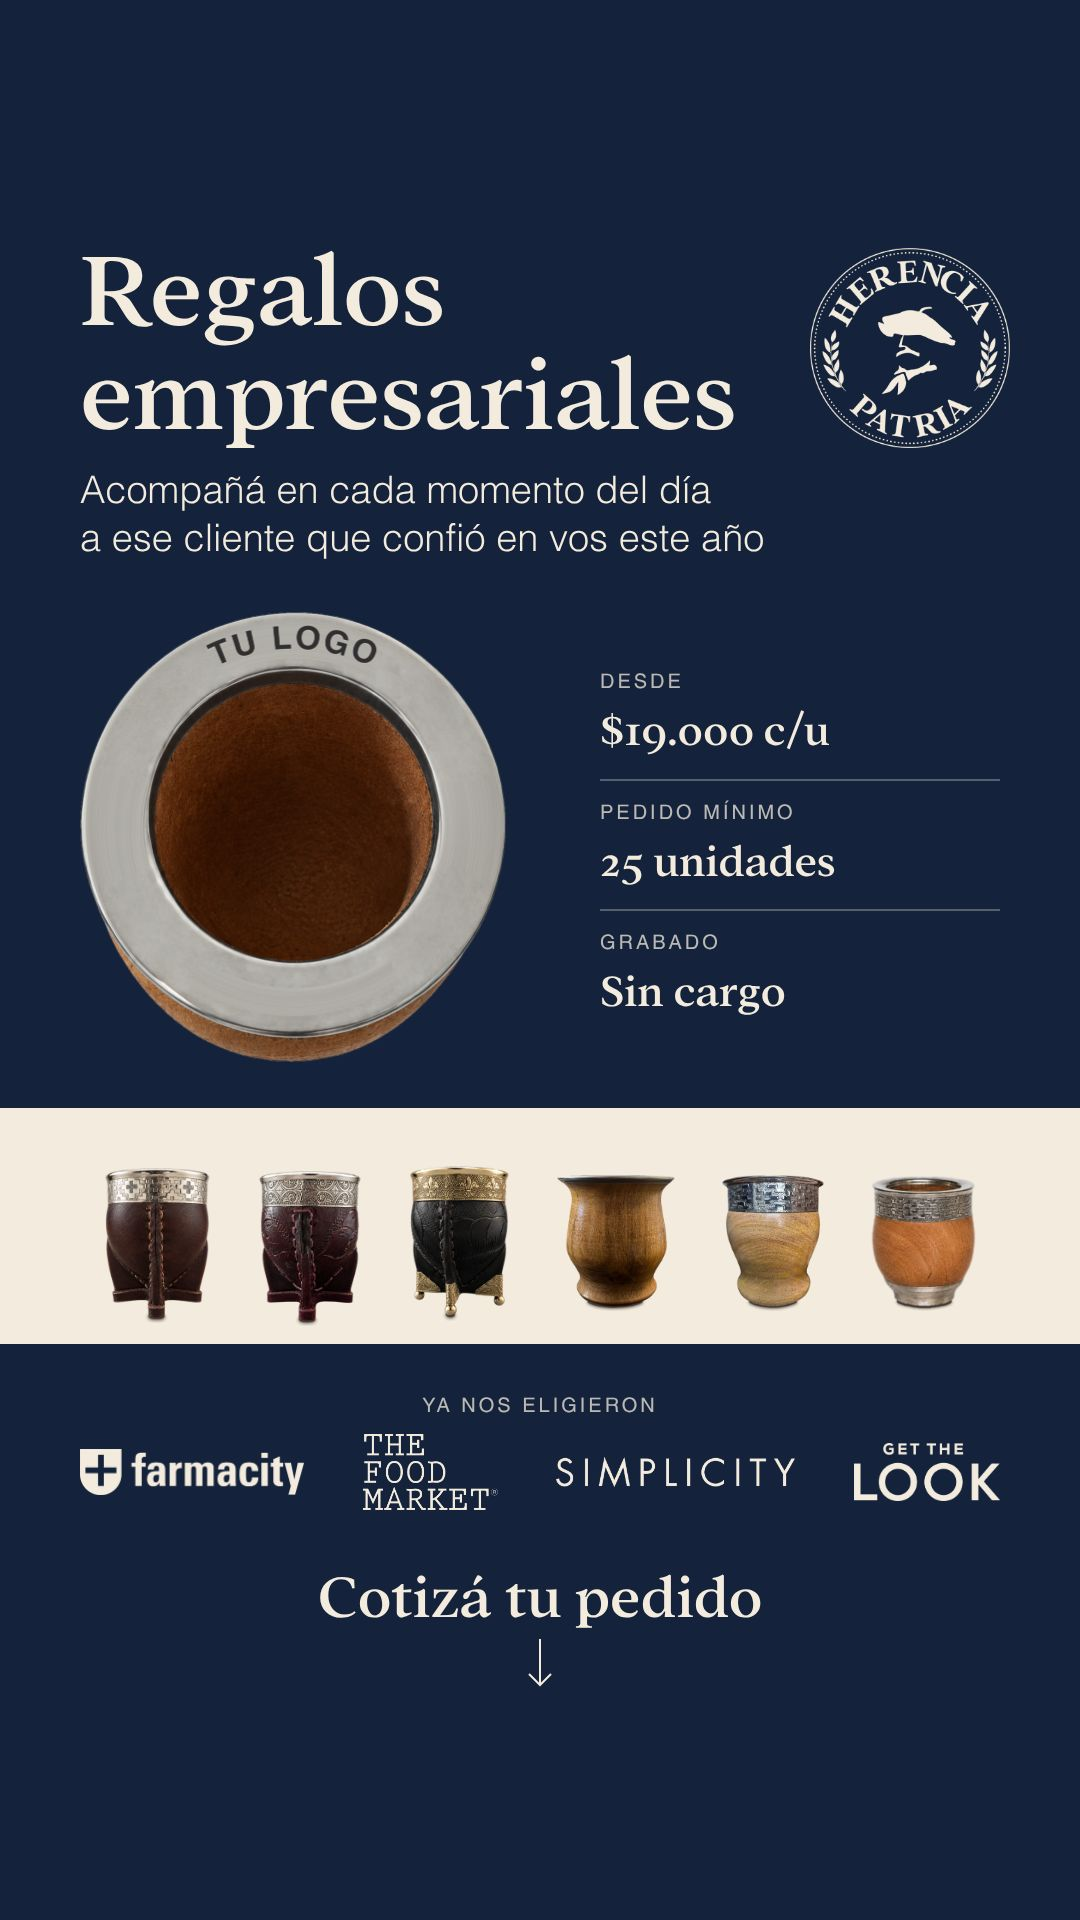
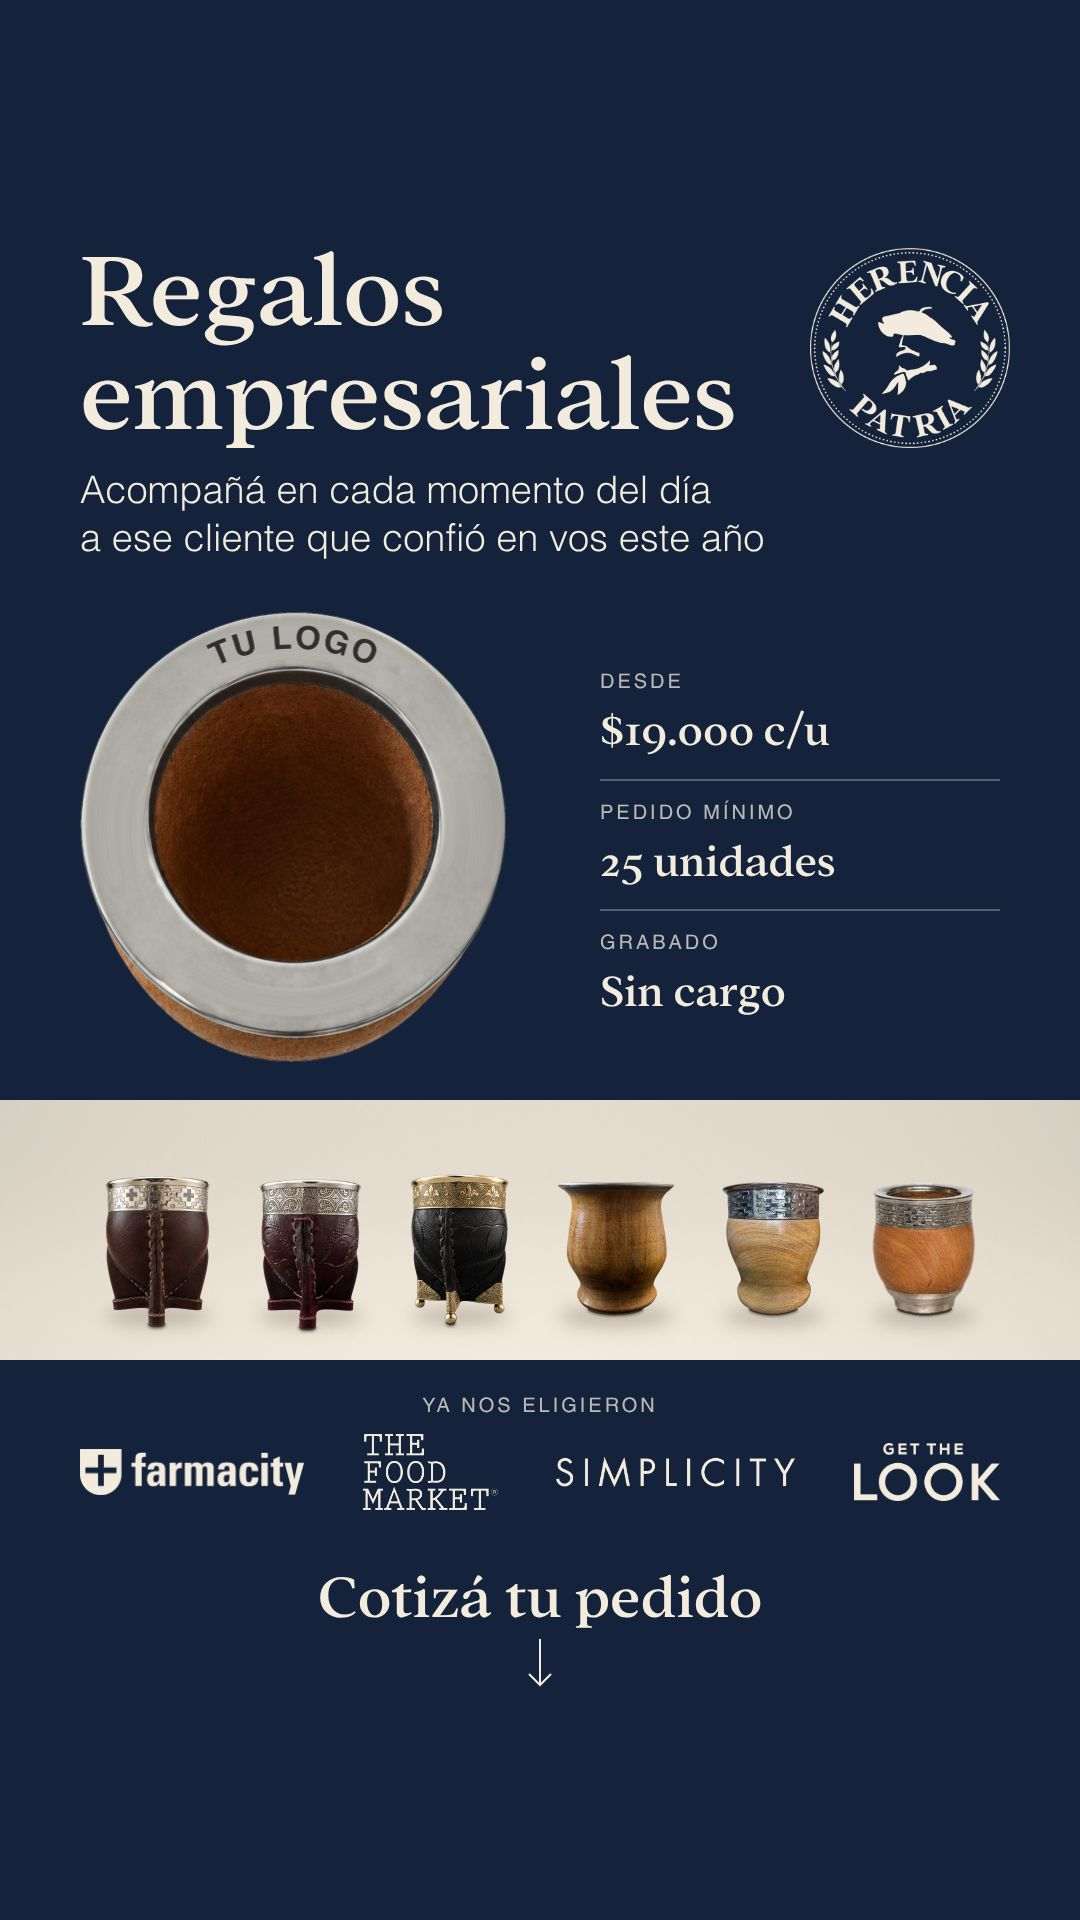
Historia empresas B: los mates sobre una mesa de estudio (papel continuo crema con sombras suaves)
Claude-Session: https://claude.ai/code/session_012H3xPSmbqKoMmc2aK7okNH

Changed region(s): [[0.0, 0.5625, 1.0, 0.7188]]

diff --git a/src/HerenciaPatria/HistoriaEmpresasLogo.tsx b/src/HerenciaPatria/HistoriaEmpresasLogo.tsx
@@ -6,7 +6,7 @@ import { colors, fonts } from "./brand";
 // para cotizar sin miedo a quedar mal. Fondo azul y letras crema. Arriba el
 // título; al medio, a la izquierda, la boca de un mate grabado con "TU LOGO"
 // (la prueba de cómo queda) y a la derecha los datos duros (precio, mínimo,
-// grabado). Después, los seis modelos en fila sobre una franja crema,
+// grabado). Después, los seis modelos sobre una mesa de estudio,
 // quiénes ya los eligieron y el llamado con una flecha hacia abajo. Las
 // letras del brandbook: Addington CF Medium para los titulares y Helvetica
 // LT Std para los textos.
@@ -14,9 +14,6 @@ import { colors, fonts } from "./brand";
 // abajo la respuesta o el botón del anuncio.
 
 const margen = 80;
-// Los recortes traen debajo de la base su sombra de contacto: 24 px más cada
-// 700 de mate.
-const conPie = 724 / 700;
 
 export const HistoriaEmpresasLogo: React.FC<{
   readonly titulo: string[];
@@ -26,13 +23,21 @@ export const HistoriaEmpresasLogo: React.FC<{
   readonly grabado: { readonly foto: string };
   // Los datos duros: rótulo chico y valor grande.
   readonly datos: [rotulo: string, valor: string][];
-  // Los seis modelos, con su alto en la fila (los de calabaza son algo más
-  // grandes): recortes con su sombra de contacto (tools/recorte_mate.py).
-  readonly mates: [archivo: string, alto: number, bajar: number][];
+  // Los seis modelos en fila sobre la mesa de estudio: una sola imagen.
+  readonly estudio: string;
   readonly confianza: string;
   readonly logos: [archivo: string, alto: number][];
   readonly accion: string;
-}> = ({ titulo, bajada, grabado, datos, mates, confianza, logos, accion }) => {
+}> = ({
+  titulo,
+  bajada,
+  grabado,
+  datos,
+  estudio,
+  confianza,
+  logos,
+  accion,
+}) => {
   const rotulo: React.CSSProperties = {
     fontFamily: fonts.texto,
     fontWeight: 400,
@@ -113,43 +118,11 @@ export const HistoriaEmpresasLogo: React.FC<{
           </div>
         ))}
       </div>
-      {/* Los seis modelos, en fila, apoyados sobre una franja crema a todo el
-          ancho (como el fondo de estudio de las fotos del catálogo), cada uno
-          con su sombra de contacto. */}
-      <div
-        style={{
-          position: "absolute",
-          top: 1108,
-          left: 0,
-          right: 0,
-          height: 236,
-          background: colors.crema,
-        }}
+      {/* Los seis modelos sobre una mesa de estudio (tools/estudio_mates.py). */}
+      <Img
+        src={staticFile(estudio)}
+        style={{ position: "absolute", top: 1100, left: 0, width: 1080 }}
       />
-      <div
-        style={{
-          position: "absolute",
-          top: 1306 - 150,
-          left: margen + 20,
-          right: margen + 20,
-          height: 150 * conPie,
-          display: "flex",
-          justifyContent: "space-between",
-          alignItems: "flex-end",
-        }}
-      >
-        {mates.map(([src, alto, bajar]) => (
-          <Img
-            key={src}
-            src={staticFile(src)}
-            style={{
-              display: "block",
-              height: alto * conPie,
-              marginBottom: -bajar,
-            }}
-          />
-        ))}
-      </div>
       {/* Quiénes ya los eligieron: los logos en crema. */}
       <div
         style={{

diff --git a/src/Root.tsx b/src/Root.tsx
@@ -445,18 +445,18 @@ export const RemotionRoot: React.FC = () => {
             ["Grabado", "Sin cargo"],
           ] as [string, string][],
           // Los de calabaza (simple, repujado y base bolita), algo más
-          // grandes, y los de algarrobo (camionero, imperial e imperial con base).
-          // Fotos del catálogo. El tercer número baja los que tienen patas: la
-          // foto los muestra un poco desde arriba, así que la pata de adelante
-          // queda más abajo que el piso real (el de las patas de los costados).
-          mates: [
-            ["recortes/calabaza-simple.png", 150, 12],
-            ["recortes/calabaza-repujado.png", 150, 15],
-            ["recortes/calabaza-base-bolita.png", 150, 10],
-            ["recortes/algarrobo-camionero.png", 132, 0],
-            ["recortes/algarrobo-imperial.png", 132, 0],
-            ["recortes/algarrobo-imperial-con-base.png", 132, 0],
-          ] as [string, number, number][],
+          // grandes, y los de algarrobo (camionero, imperial e imperial con
+          // base), sobre una mesa de estudio. Los de calabaza van un poco más
+          // abajo (el último número): la foto los muestra desde arriba y la
+          // pata de adelante queda más abajo que el piso real.
+          //   python tools/estudio_mates.py public/estudio-mates.png 1080 260 214 100 \
+          //     public/recortes/calabaza-simple.png:150:12 \
+          //     public/recortes/calabaza-repujado.png:150:15 \
+          //     public/recortes/calabaza-base-bolita.png:150:10 \
+          //     public/recortes/algarrobo-camionero.png:132:0 \
+          //     public/recortes/algarrobo-imperial.png:132:0 \
+          //     public/recortes/algarrobo-imperial-con-base.png:132:0
+          estudio: "estudio-mates.png",
           confianza: "Ya nos eligieron",
           logos: [
             ["clientes/farmacity-crema.png", 46],

diff --git a/tools/estudio_mates.py b/tools/estudio_mates.py
@@ -1,0 +1,83 @@
+"""Los mates en fila sobre una mesa de estudio: fondo crema que se curva hacia
+el piso (sin línea de horizonte, como el papel continuo de las fotos de
+producto), una sombra suave bajo cada mate además de su sombra de contacto, y
+un grano muy fino de papel. Sale una sola imagen para la historia.
+
+Uso:
+  python estudio_mates.py SALIDA.png ANCHO ALTO PISO MARGEN \
+      RECORTE:ALTO:BAJAR [RECORTE:ALTO:BAJAR ...]
+
+ANCHO, ALTO, PISO (la línea donde apoyan) y MARGEN en px de la historia; la
+imagen sale al doble para que quede nítida. Los recortes son los de
+recorte_mate.py (700 px de mate + 24 de sombra de contacto).
+"""
+
+import sys
+
+import cv2
+import numpy as np
+
+X = 2  # la imagen sale al doble
+CREMA = np.array([221, 235, 243], np.float32)  # BGR de #F3EBDD
+
+
+def main():
+    out = sys.argv[1]
+    ancho, alto, piso, margen = (int(v) * X for v in sys.argv[2:6])
+    mates = []
+    for arg in sys.argv[6:]:
+        f, h, b = arg.rsplit(":", 2)
+        r = cv2.imread(f, cv2.IMREAD_UNCHANGED).astype(np.float32)
+        h = int(h) * X * 724 / 700
+        r = cv2.resize(r, (round(r.shape[1] * h / r.shape[0]), round(h)), interpolation=cv2.INTER_AREA)
+        mates.append((r, int(b) * X))
+
+    # Fondo: la pared un poco más oscura arriba, el piso más claro, y la curva
+    # entre los dos muy suave (sin horizonte marcado).
+    y = np.arange(alto, dtype=np.float32)[:, None]
+    curva = piso - 70 * X
+    t = 1 / (1 + np.exp(-(y - curva) / (38 * X)))
+    pared = CREMA * 0.93
+    suelo = CREMA * 1.0
+    fondo = pared * (1 - t[..., None]) + suelo * t[..., None]
+    # Luz desde arriba al centro: los costados apenas más oscuros.
+    xs = (np.arange(ancho, dtype=np.float32) - ancho / 2) / (ancho / 2)
+    fondo = fondo * (1 - 0.05 * xs[None, :, None] ** 2)
+    fondo = np.repeat(fondo, ancho, axis=1) if fondo.shape[1] == 1 else fondo
+    fondo = np.broadcast_to(fondo, (alto, ancho, 3)).copy()
+
+    # Dónde va cada mate: separaciones iguales entre uno y otro.
+    anchos = [r.shape[1] for r, _ in mates]
+    hueco = (ancho - 2 * margen - sum(anchos)) / (len(mates) - 1)
+    x = margen
+    sombra = np.zeros((alto, ancho), np.float32)
+    capas = []
+    for (r, bajar), w in zip(mates, anchos):
+        top = piso - round(r.shape[0] * 700 / 724) + bajar
+        capas.append((r, int(round(x)), top))
+        # Sombra suave bajo el mate: una elipse aplastada, como la que deja
+        # una luz grande de arriba sobre la mesa.
+        cx = int(round(x + w / 2))
+        ancho_s = int(w * 0.46)
+        cv2.ellipse(sombra, (cx, piso + 2 * X), (ancho_s, int(ancho_s * 0.16)), 0, 0, 360, 1, -1)
+        x += w + hueco
+    sombra = cv2.GaussianBlur(sombra, (0, 0), 9 * X) * 0.32
+    tono = np.array([40, 52, 66], np.float32)
+    fondo = fondo * (1 - sombra[..., None]) + tono * sombra[..., None]
+
+    for r, x0, top in capas:
+        h, w = r.shape[:2]
+        y0, y1 = max(top, 0), min(top + h, alto)
+        x1 = min(x0 + w, ancho)
+        sub = r[y0 - top : y1 - top, : x1 - x0]
+        al = sub[..., 3:] / 255
+        fondo[y0:y1, x0:x1] = sub[..., :3] * al + fondo[y0:y1, x0:x1] * (1 - al)
+
+    # Grano fino de papel.
+    grano = np.random.default_rng(3).normal(0, 1.6, (alto, ancho)).astype(np.float32)
+    fondo += cv2.GaussianBlur(grano, (0, 0), 0.8)[..., None]
+    cv2.imwrite(out, np.clip(fondo, 0, 255).astype(np.uint8))
+
+
+if __name__ == "__main__":
+    main()
